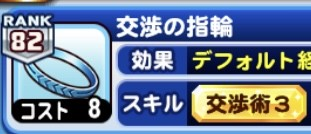
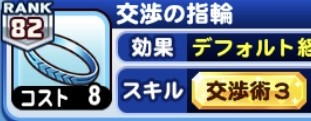
西球記：リンク欄「ドロップ契約書まとめ」に管理人の画像を入れ、交渉の指輪の画像の上の余白を13px切って縦横比を契約書画像とそろえた（表示サイズが同じに）
Claude-Session: https://claude.ai/code/session_019YJeSzNy4VjMu3dL3K2Dga

diff --git a/src/pages/pawaque-saikyuki.html b/src/pages/pawaque-saikyuki.html
@@ -19,9 +19,9 @@ pq_order: 5
   <div class="sk-grid">
     <a class="sk-c" href="{{root}}pawaque/saikyuki/feature/"><span class="sk-th sk-img"><img src="{{root}}img/pawaque/saikyuki_logo.png" alt="西球記のロゴ" width="235" height="130"></span><span class="sk-l">西球記の特徴</span></a>
     <a class="sk-c" href="{{root}}pawaque/saikyuki/quest/"><span class="sk-th sk-img"><img src="{{root}}img/pawaque/saikyuki_link_quest.jpg" alt="クエスト一覧の画面" width="374" height="148"></span><span class="sk-l">クエスト一覧</span></a>
-    <a class="sk-c" href="{{root}}pawaque/saikyuki/drop/"><span class="sk-th sk-img"><img src="{{root}}img/pawaque/saikyuki_link_drop.jpg" alt="交渉の指輪" width="311" height="134"></span><span class="sk-l">重要アイテム<span class="cp-nw">周回方法</span></span></a>
+    <a class="sk-c" href="{{root}}pawaque/saikyuki/drop/"><span class="sk-th sk-img"><img src="{{root}}img/pawaque/saikyuki_link_drop.jpg" alt="交渉の指輪" width="311" height="121"></span><span class="sk-l">重要アイテム<span class="cp-nw">周回方法</span></span></a>
     <a class="sk-c" href="{{root}}pawaque/saikyuki/shinzen/"><span class="sk-th sk-img"><img src="{{root}}img/pawaque/saikyuki_link_shinzen.jpg" alt="神前試合の画面" width="660" height="334"></span><span class="sk-l">神前試合<span class="cp-nw">まとめ</span></span></a>
-    <a class="sk-c" href="{{root}}pawaque/saikyuki/contract/"><span class="sk-th">画像<br>（あとで）</span><span class="sk-l">ドロップ<span class="cp-nw">契約書まとめ</span></span></a>
+    <a class="sk-c" href="{{root}}pawaque/saikyuki/contract/"><span class="sk-th sk-img"><img src="{{root}}img/pawaque/saikyuki_link_contract.jpg" alt="［求道者］才賀 侑人の契約書" width="320" height="125"></span><span class="sk-l">ドロップ<span class="cp-nw">契約書まとめ</span></span></a>
     <a class="sk-c" href="{{root}}pawaque/mission/"><span class="sk-th sk-img"><img src="{{root}}img/pawaque/saikyuki_link_mission.jpg" alt="ミッションの画面" width="232" height="161"></span><span class="sk-l">ミッション報酬</span></a>
   </div>
   </section>

diff --git a/docs/pawaque/saikyuki/index.html b/docs/pawaque/saikyuki/index.html
@@ -68,9 +68,9 @@
   <div class="sk-grid">
     <a class="sk-c" href="../../pawaque/saikyuki/feature/"><span class="sk-th sk-img"><img src="../../img/pawaque/saikyuki_logo.png" alt="西球記のロゴ" width="235" height="130"></span><span class="sk-l">西球記の特徴</span></a>
     <a class="sk-c" href="../../pawaque/saikyuki/quest/"><span class="sk-th sk-img"><img src="../../img/pawaque/saikyuki_link_quest.jpg" alt="クエスト一覧の画面" width="374" height="148"></span><span class="sk-l">クエスト一覧</span></a>
-    <a class="sk-c" href="../../pawaque/saikyuki/drop/"><span class="sk-th sk-img"><img src="../../img/pawaque/saikyuki_link_drop.jpg" alt="交渉の指輪" width="311" height="134"></span><span class="sk-l">重要アイテム<span class="cp-nw">周回方法</span></span></a>
+    <a class="sk-c" href="../../pawaque/saikyuki/drop/"><span class="sk-th sk-img"><img src="../../img/pawaque/saikyuki_link_drop.jpg" alt="交渉の指輪" width="311" height="121"></span><span class="sk-l">重要アイテム<span class="cp-nw">周回方法</span></span></a>
     <a class="sk-c" href="../../pawaque/saikyuki/shinzen/"><span class="sk-th sk-img"><img src="../../img/pawaque/saikyuki_link_shinzen.jpg" alt="神前試合の画面" width="660" height="334"></span><span class="sk-l">神前試合<span class="cp-nw">まとめ</span></span></a>
-    <a class="sk-c" href="../../pawaque/saikyuki/contract/"><span class="sk-th">画像<br>（あとで）</span><span class="sk-l">ドロップ<span class="cp-nw">契約書まとめ</span></span></a>
+    <a class="sk-c" href="../../pawaque/saikyuki/contract/"><span class="sk-th sk-img"><img src="../../img/pawaque/saikyuki_link_contract.jpg" alt="［求道者］才賀 侑人の契約書" width="320" height="125"></span><span class="sk-l">ドロップ<span class="cp-nw">契約書まとめ</span></span></a>
     <a class="sk-c" href="../../pawaque/mission/"><span class="sk-th sk-img"><img src="../../img/pawaque/saikyuki_link_mission.jpg" alt="ミッションの画面" width="232" height="161"></span><span class="sk-l">ミッション報酬</span></a>
   </div>
   </section>

diff --git a/src/pages/pawaque-saikyuki-drop.html b/src/pages/pawaque-saikyuki-drop.html
@@ -13,7 +13,7 @@ noindex: yes
      文章は管理人の原稿どおり（推測で書かない）。中身が入ったら noindex の行を消して公開する。description と card も原稿に合わせて直す。 -->
 <section class="phead"><p class="eyebrow">パワクエ 西球記</p><h1><span class="mk"><i>重要アイテム周回方法</i></span></h1><p>パワクエ<span class="cp-nw">「西球記（さいきゅうき）」</span>で、重要アイテムを集める周回方法を<span class="cp-nw">まとめました。</span></p></section>
 <div class="prose">
-  <img class="pq-img" src="{{root}}img/pawaque/saikyuki_link_drop.jpg" alt="交渉の指輪" width="311" height="134">
+  <img class="pq-img" src="{{root}}img/pawaque/saikyuki_link_drop.jpg" alt="交渉の指輪" width="311" height="121">
 
   <nav class="toc" aria-label="このページの目次">
   <b>もくじ</b>

diff --git a/docs/pawaque/saikyuki/drop/index.html b/docs/pawaque/saikyuki/drop/index.html
@@ -61,7 +61,7 @@
      文章は管理人の原稿どおり（推測で書かない）。中身が入ったら noindex の行を消して公開する。description と card も原稿に合わせて直す。 -->
 <section class="phead"><p class="eyebrow">パワクエ 西球記</p><h1><span class="mk"><i>重要アイテム周回方法</i></span></h1><p>パワクエ<span class="cp-nw">「西球記（さいきゅうき）」</span>で、重要アイテムを集める周回方法を<span class="cp-nw">まとめました。</span></p></section>
 <div class="prose">
-  <img class="pq-img" src="../../../img/pawaque/saikyuki_link_drop.jpg" alt="交渉の指輪" width="311" height="134">
+  <img class="pq-img" src="../../../img/pawaque/saikyuki_link_drop.jpg" alt="交渉の指輪" width="311" height="121">
 
   <nav class="toc" aria-label="このページの目次">
   <b>もくじ</b>
